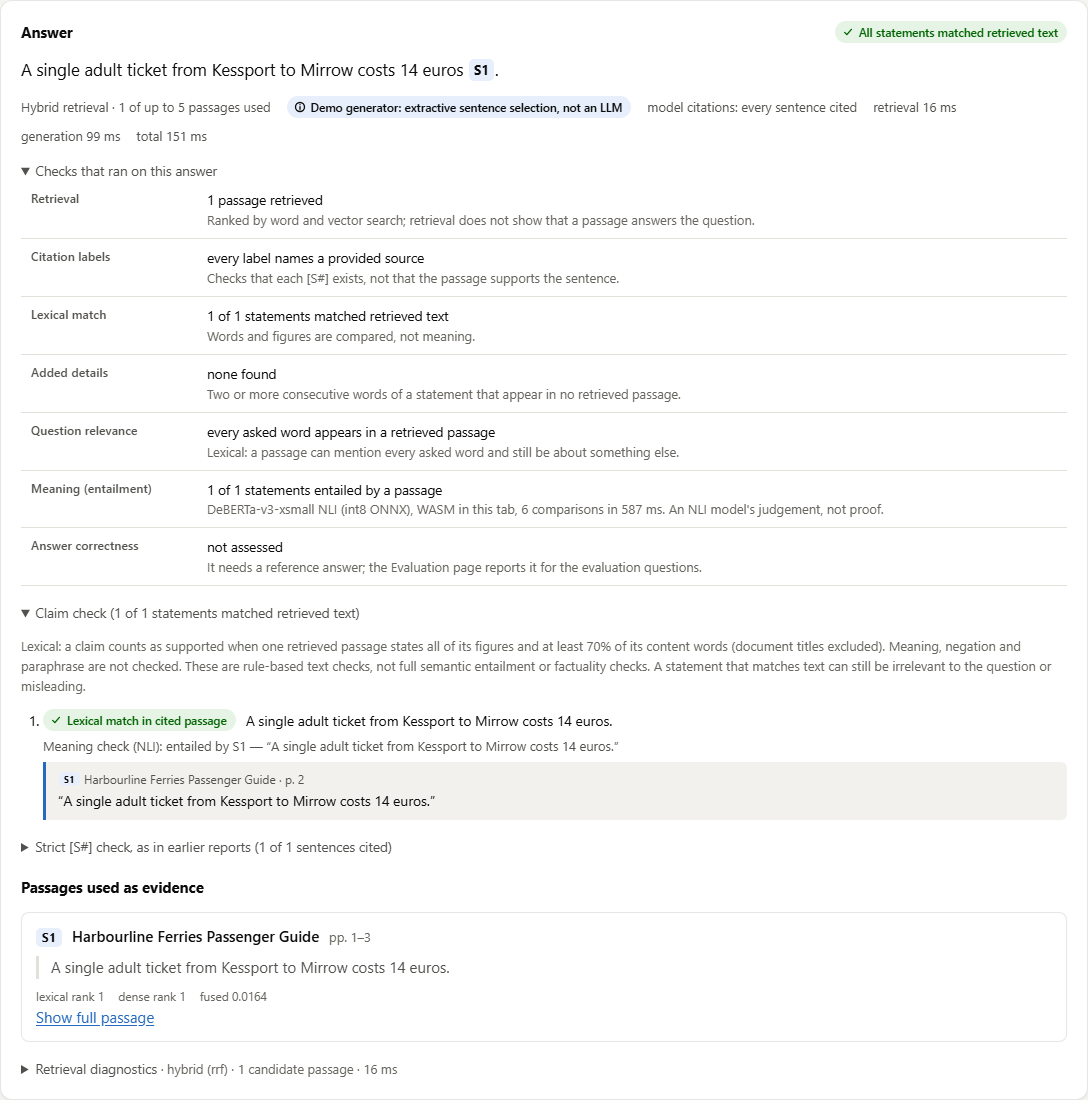
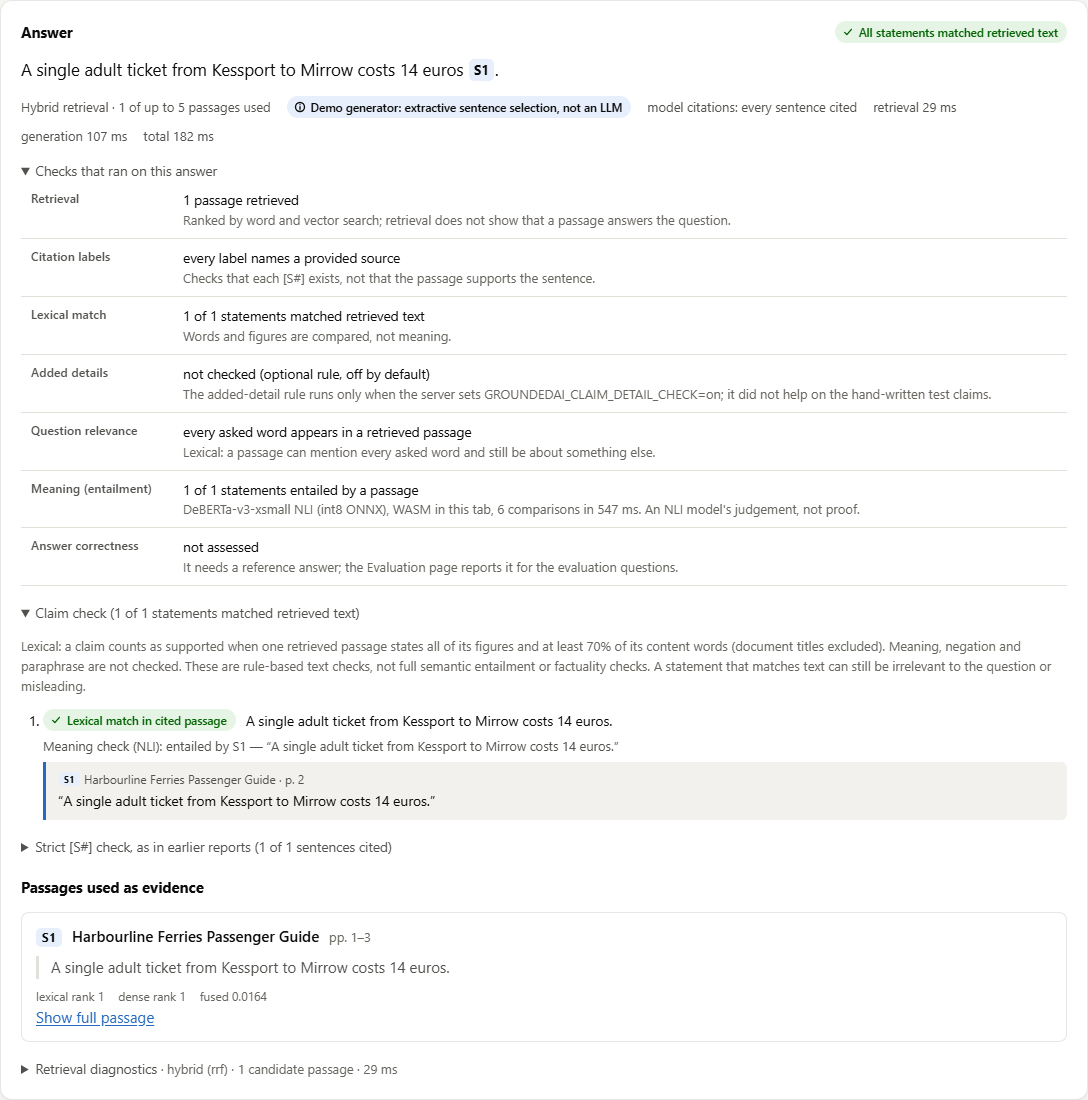
Docs: screenshot of the deployed demo with the added-detail rule off; live check recorded

diff --git a/docs/RELIABILITY_V3.md b/docs/RELIABILITY_V3.md
@@ -461,6 +461,7 @@ Pages run 43761256978 built, checked, deployed and verified the demo. On the liv
 | a question about borrowing, asked about the ferry guide | refused, naming the words the passages do not mention |
 | "Checks that ran on this answer" | every row present; meaning shown as not checked while the check is off |
 | meaning check switched on, ferry question | "entailed by S1" per statement and in the summary row ([screenshot](images/demo-checks-meaning.png)) |
+| after the added-detail rule was made optional (PR #17, Pages run 43768884347) | `e2e_demo.py` 16 of 16; the checks table shows "Added details: not checked (optional rule, off by default)" and the meaning check still runs ("1 of 1 statements entailed by a passage") |
 | meaning check: bytes received on first use | 93.2 MB: 87.3 MB model, 2.0 MB tokenizer and 3.9 MB runtime file, both compressed in transit by their servers |
 | meaning check: agreement with Python onnxruntime, 160 validation pairs | same top label on 159 (as locally) |
 | meaning check: memory of the page's renderer | 401-418 MB before; 897-1,013 MB loaded; about 850 MB after classifying; 450-458 MB after switching off |

diff --git a/README.md b/README.md
@@ -24,9 +24,9 @@ stays in the tab.
 
 <p align="center">
   <img src="docs/images/demo-checks-meaning.png" width="860"
-       alt="The live demo answering the ferry ticket question: the answer with its source label, the statement's quote and page, the meaning check (NLI) saying the statement is entailed by passage S1, and the table of checks that ran: retrieval, citation labels, lexical match, added details, question relevance, meaning, and answer correctness not assessed">
+       alt="The live demo answering the ferry ticket question: the answer with its source label, the statement's quote and page, the meaning check (NLI) saying the statement is entailed by passage S1, and the table of checks that ran: retrieval, citation labels, lexical match, added details (not checked: optional rule, off by default), question relevance, meaning, and answer correctness not assessed">
 </p>
-<p align="center"><sub>A screenshot of the deployed demo with the optional meaning check switched on.</sub></p>
+<p align="center"><sub>A screenshot of the deployed demo (2026-11-15) with the optional meaning check switched on.</sub></p>
 
 **What it does**
 
